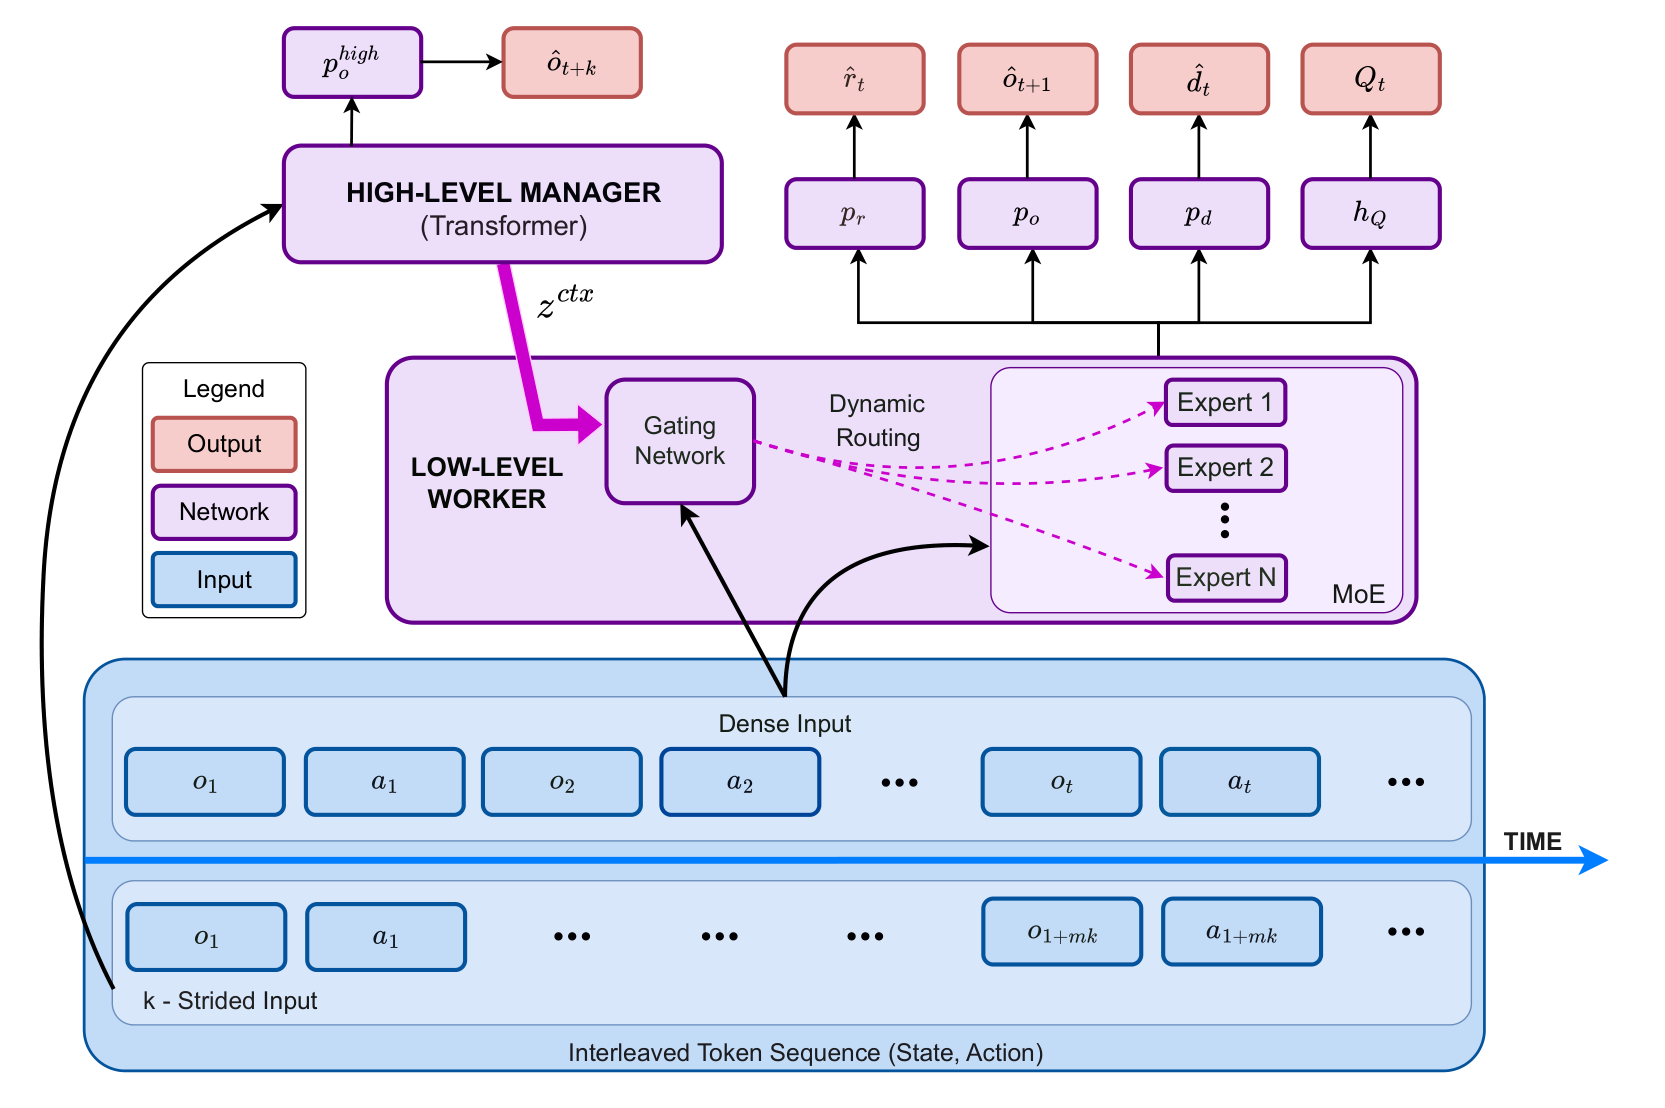
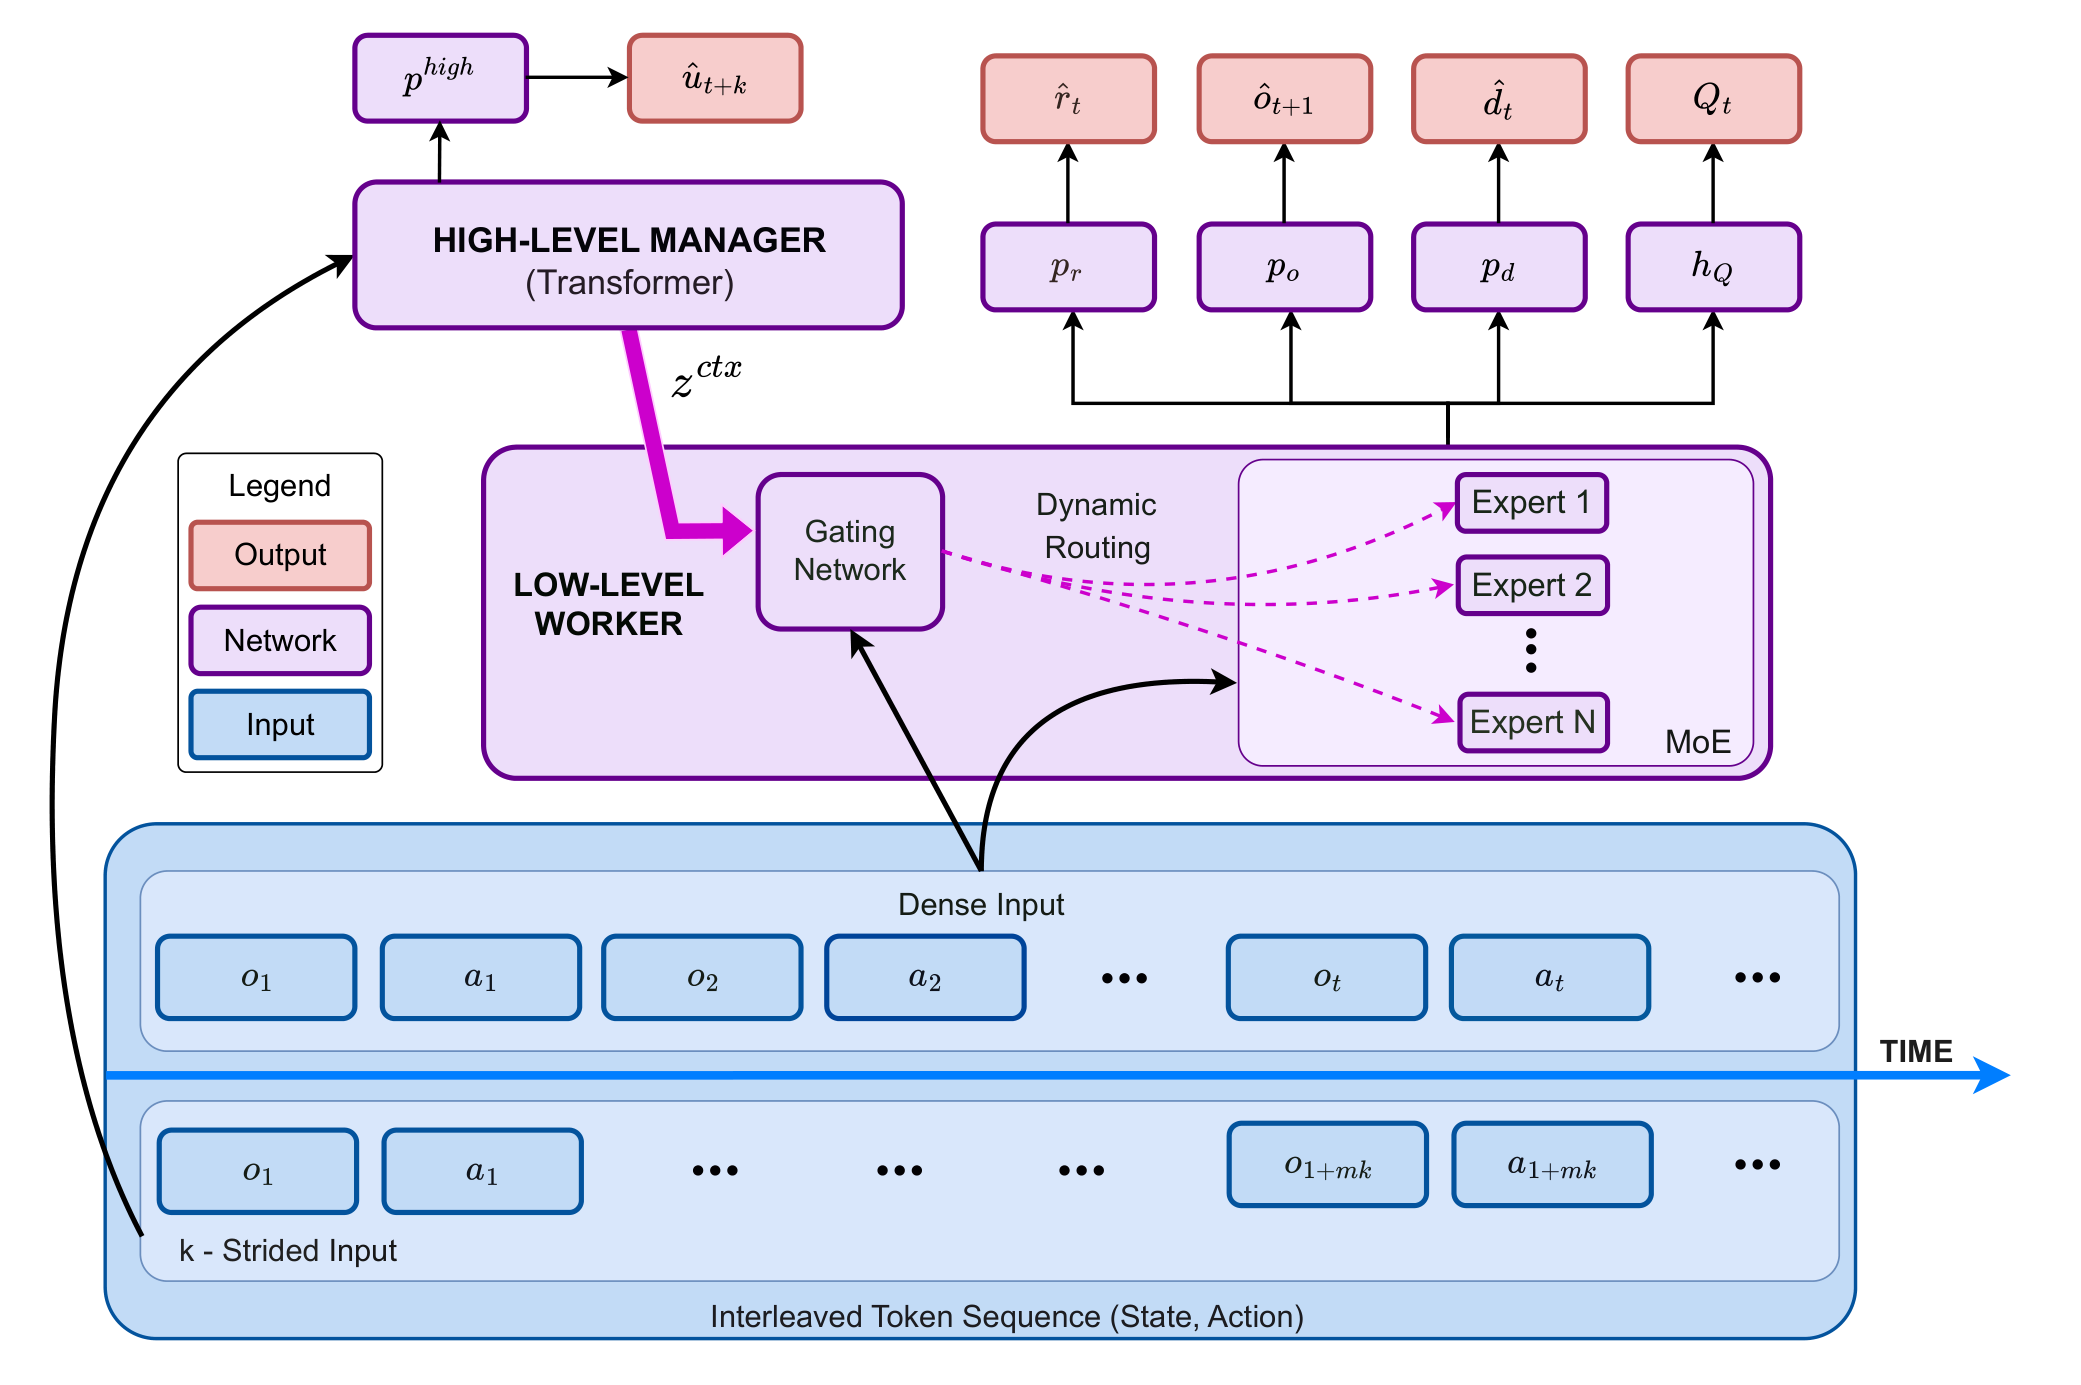
Align architecture figure and explanation with final paper

diff --git a/index.html b/index.html
@@ -57,12 +57,12 @@
     </section>
     <section class="story wrap section-space" aria-labelledby="question-title">
       <div><p class="eyebrow">THE QUESTION</p><h2 id="question-title">Can better structure<br>reduce the need<br>for greater scale?</h2></div>
-      <div class="story-text"><p class="large-copy">Small prediction errors become bigger decisions.</p><p>Autoregressive world models can drift as they roll out their own predictions. Scaling model capacity helps, but increases training cost. MHWA explores a complementary direction: organize context and computation across timescales.</p><p>The high-level pathway learns from strided trajectories with a skip-step predictive objective. The low-level pathway combines this context with the instantaneous token state to select specialized experts across heterogeneous game dynamics.</p><a class="text-link" href="https://arxiv.org/abs/2610.14727" target="_blank" rel="noopener">Explore the full formulation <span aria-hidden="true">↗</span></a></div>
+      <div class="story-text"><p class="large-copy">Small prediction errors become bigger decisions.</p><p>Autoregressive world models can drift as they roll out their own predictions. Scaling model capacity helps, but increases training cost. MHWA explores a complementary direction: organize context and computation across timescales.</p><p>The high-level Manager processes input embeddings sampled every four tokens and learns to predict the next sampled token, which may represent an observation or an action. Within the Worker, a gating network combines high-level context with the current token representation to select and weight experts.</p><a class="text-link" href="https://arxiv.org/abs/2610.14727" target="_blank" rel="noopener">Explore the full formulation <span aria-hidden="true">↗</span></a></div>
     </section>
     <section class="method section-space" id="method" aria-labelledby="method-title">
       <div class="wrap"><div class="section-heading"><div><p class="eyebrow">02 / ARCHITECTURE</p><h2 id="method-title">Two levels.<br>One world-action model.</h2></div><p>A high-level context channel guides sparse computation at the token level.</p></div>
-        <figure class="architecture-figure"><a href="assets/architecture.png" target="_blank" rel="noopener"><img src="assets/architecture.png" loading="lazy" width="1670" height="1112" alt="MHWA architecture: a strided high-level Manager, an isolated context projector, and a low-level Worker with context-aware expert routing."></a><figcaption>MHWA architecture. Figure from the paper; open for a closer look.</figcaption></figure>
-        <div class="method-steps"><article><span>01</span><h3>Learn coarse context</h3><p>A strided Manager learns predictive representations using a skip-step observation objective.</p></article><article><span>02</span><h3>Separate learning signals</h3><p>Stop-gradient isolates the Manager from low-level losses, while the projector, router, and Worker remain trainable.</p></article><article><span>03</span><h3>Route local computation</h3><p>The gate combines context and current token state, activating two of four experts in each Worker MoE layer.</p></article></div>
+        <figure class="architecture-figure"><a href="assets/architecture.png?v=a55bcec7a29c" target="_blank" rel="noopener"><img src="assets/architecture.png?v=a55bcec7a29c" loading="lazy" width="2081" height="1385" alt="MHWA architecture: the strided Manager predicts the next sampled observation or action token, and the Worker's gating network uses context and the current token representation to select and weight experts."></a><figcaption>MHWA architecture. The Manager predicts the next sampled observation or action token. High-level context and the current token representation guide expert selection and weighting in the Worker.</figcaption></figure>
+        <div class="method-steps"><article><span>01</span><h3>Learn coarse context</h3><p>The Manager processes input embeddings sampled every four tokens. Its prediction head learns to predict the next sampled observation or action token.</p></article><article><span>02</span><h3>Separate learning signals</h3><p>Stop-gradient isolates the Manager from low-level losses, while the projector, router, and Worker remain trainable.</p></article><article><span>03</span><h3>Route local computation</h3><p>The Worker's gating network combines high-level context with the current token representation to select and weight two of four experts in each MoE layer.</p></article></div>
       </div>
     </section>
     <section class="results wrap section-space" id="results" aria-labelledby="results-title">

diff --git a/README.md b/README.md
@@ -19,14 +19,15 @@ This is the research preview. The public code release is in preparation.
 
 ## A hierarchy that learns context and routes computation
 
-![The MHWA architecture](assets/architecture.png)
+![The MHWA architecture](assets/architecture.png?v=a55bcec7a29c)
 
-- **Predictive context:** a high-level Manager learns from strided trajectories
-  using a skip-step observation prediction objective.
+- **Predictive context:** the high-level Manager processes input embeddings sampled
+  every four tokens and predicts the next sampled observation or action token.
 - **Separate learning signals:** stop-gradient isolates the Manager from
   low-level objectives; the Context Projector, router, and Worker remain trainable.
-- **Context-aware experts:** the Worker combines context with the current token
-  state, activating two of four experts per MoE layer.
+- **Context-aware experts:** the Worker's gating network combines high-level context
+  with the current token representation to select and weight two of four experts
+  per MoE layer.
 
 ## Paper results
 
